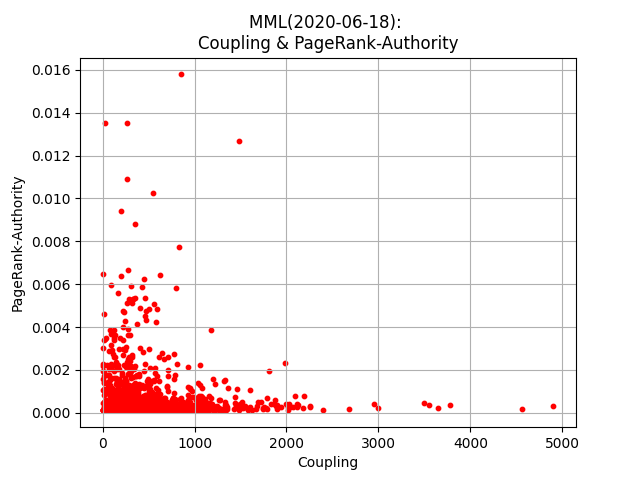
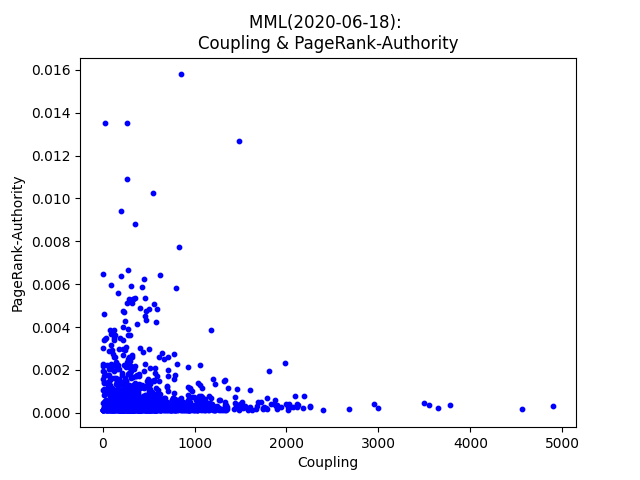
update to delete grid,change color red to blue

diff --git a/graph/create_table.py b/graph/create_table.py
@@ -440,12 +440,12 @@ def create_scatter_plot_coupling_and_authority_minus_pagerank():
         y.append(float(article2authority_minus_pagerank[key]))
         # x: coupoing y:  HITS-Authority minus PageRank-Authority
     
-    plt.scatter(x, y, s=10,vmin=0.00, vmax=1.00, c='red')
+    plt.scatter(x, y, s=10,vmin=0.00, vmax=1.00, c='blue')
 
     plt.title("MML(2020-06-18): \nCoupling &  HITS-Authority minus PageRank-Authority")
     plt.xlabel("Coupling")
     plt.ylabel(" HITS-Authority minus PageRank-Authority")
-    plt.grid(True)
+    plt.grid(False)
 
     cwd = os.getcwd()
     try:
@@ -469,12 +469,12 @@ def create_scatter_plot_coupling_and_pagerank():
         y.append(float(article2pagerank[key]))
         # x: coupoing y: PageRank
     
-    plt.scatter(x, y, s=10,vmin=0.00, vmax=1.00, c='red')
+    plt.scatter(x, y, s=10,vmin=0.00, vmax=1.00, c='blue')
 
     plt.title("MML(2020-06-18): \nCoupling & PageRank-Authority")
     plt.xlabel("Coupling")
     plt.ylabel("PageRank-Authority")
-    plt.grid(True)
+    plt.grid(False)
 
     cwd = os.getcwd()
     try:
@@ -498,12 +498,12 @@ def create_scatter_plot_coupling_and_authority():
         y.append(float(article2authority[key]))
         # x: coupoing y: Authority
     
-    plt.scatter(x, y, s=10,vmin=0.00, vmax=1.00, c='red')
+    plt.scatter(x, y, s=10,vmin=0.00, vmax=1.00, c='blue')
 
     plt.title("MML(2020-06-18): \nCoupling & HITS-Authority")
     plt.xlabel("Coupling")
     plt.ylabel("HITS-Authority")
-    plt.grid(True)
+    plt.grid(False)
 
     cwd = os.getcwd()
     try:
@@ -527,12 +527,12 @@ def create_scatter_plot_cohesion_and_authority_minus_pagerank():
         y.append(float(article2authority_minus_pagerank[key]))
         # x: coupoing y:  HITS-Authority minus PageRank-Authority
     
-    plt.scatter(x, y, s=10,vmin=0.00, vmax=1.00, c='red')
+    plt.scatter(x, y, s=10,vmin=0.00, vmax=1.00, c='blue')
 
     plt.title("MML(2020-06-18): \nCohesion &  HITS-Authority minus PageRank-Authority")
     plt.xlabel("Cohesion")
     plt.ylabel("HITS-Authority minus PageRank-Authority")
-    plt.grid(True)
+    plt.grid(False)
 
     cwd = os.getcwd()
     try:
@@ -556,12 +556,12 @@ def create_scatter_plot_cohesion_and_pagerank():
         y.append(float(article2pagerank[key]))
         # x: coupoing y: PageRank
     
-    plt.scatter(x, y, s=10,vmin=0.00, vmax=1.00, c='red')
+    plt.scatter(x, y, s=10,vmin=0.00, vmax=1.00, c='blue')
 
     plt.title("MML(2020-06-18): \nCohesion & PageRank-Authority")
     plt.xlabel("Cohesion")
     plt.ylabel("PageRank-Authorituy")
-    plt.grid(True)
+    plt.grid(False)
 
     cwd = os.getcwd()
     try:
@@ -585,12 +585,12 @@ def create_scatter_plot_cohesion_and_authority():
         y.append(float(article2authority[key]))
         # x: coupoing y: Authority
     
-    plt.scatter(x, y, s=10,vmin=0.00, vmax=1.00, c='red')
+    plt.scatter(x, y, s=10,vmin=0.00, vmax=1.00, c='blue')
 
     plt.title("MML(2020-06-18): \nCohesion & HITS-Authority")
     plt.xlabel("Cohesion")
     plt.ylabel("HITS-Authority")
-    plt.grid(True)
+    plt.grid(False)
 
     cwd = os.getcwd()
     try:
@@ -614,12 +614,12 @@ def create_scatter_plot_coupling_minus_cohesion_and_hits_authority_minus_pageran
         y.append(float(article2authority_minus_pagerank[key]))
         # x: coupoing minus cohesion y: HITS Authority minus PageRank
     
-    plt.scatter(x, y, s=10,vmin=0.00, vmax=1.00, c='red')
+    plt.scatter(x, y, s=10,vmin=0.00, vmax=1.00, c='blue')
 
     plt.title("MML(2020-06-18): \nCoupling minus Cohesion & HITS-Authority minus PageRank")
     plt.xlabel("Coupling minus Cohesion")
     plt.ylabel("HITS-Authority minus PageRank")
-    plt.grid(True)
+    plt.grid(False)
 
     cwd = os.getcwd()
     try:
@@ -643,12 +643,12 @@ def create_scatter_plot_coupling_minus_cohesion_and_pagerank():
         y.append(float(article2pagerank[key]))
         # x: coupoing minus cohesion y: PageRank
     
-    plt.scatter(x, y, s=10,vmin=0.00, vmax=1.00, c='red')
+    plt.scatter(x, y, s=10,vmin=0.00, vmax=1.00, c='blue')
 
     plt.title("MML(2020-06-18): \nCoupling minus Cohesion & PageRank")
     plt.xlabel("Coupling minus Cohesion")
     plt.ylabel("PageRank")
-    plt.grid(True)
+    plt.grid(False)
 
     cwd = os.getcwd()
     try:
@@ -673,12 +673,12 @@ def create_scatter_plot_coupling_minus_cohesion_and_hits_authority():
         y.append(float(article2authority[key]))
         # x: coupoing minus cohesion y: HITS Authority
     
-    plt.scatter(x, y, s=10,vmin=0.00, vmax=1.00, c='red')
+    plt.scatter(x, y, s=10,vmin=0.00, vmax=1.00, c='blue')
 
     plt.title("MML(2020-06-18): \nCoupling minus Cohesion & HITS(Authority)")
     plt.xlabel("Coupling minus Cohesion")
     plt.ylabel("HITS Authority")
-    plt.grid(True)
+    plt.grid(False)
 
     cwd = os.getcwd()
     try:
@@ -695,12 +695,12 @@ def create_tables(mml_version):
     create_pagerank_and_auth_coloring_table(mml_version=mml_version)
 
 if __name__=="__main__":
-    # create_scatter_plot_coupling_and_authority_minus_pagerank()
-    # create_scatter_plot_coupling_and_pagerank()
-    # create_scatter_plot_coupling_and_authority()
-    # create_scatter_plot_cohesion_and_authority_minus_pagerank()
-    # create_scatter_plot_cohesion_and_pagerank()
-    # create_scatter_plot_cohesion_and_authority()
+    create_scatter_plot_coupling_and_authority_minus_pagerank()
+    create_scatter_plot_coupling_and_pagerank()
+    create_scatter_plot_coupling_and_authority()
+    create_scatter_plot_cohesion_and_authority_minus_pagerank()
+    create_scatter_plot_cohesion_and_pagerank()
+    create_scatter_plot_cohesion_and_authority()
     create_scatter_plot_coupling_minus_cohesion_and_hits_authority_minus_pagerank()
     create_scatter_plot_coupling_minus_cohesion_and_pagerank()
     create_scatter_plot_coupling_minus_cohesion_and_hits_authority()
